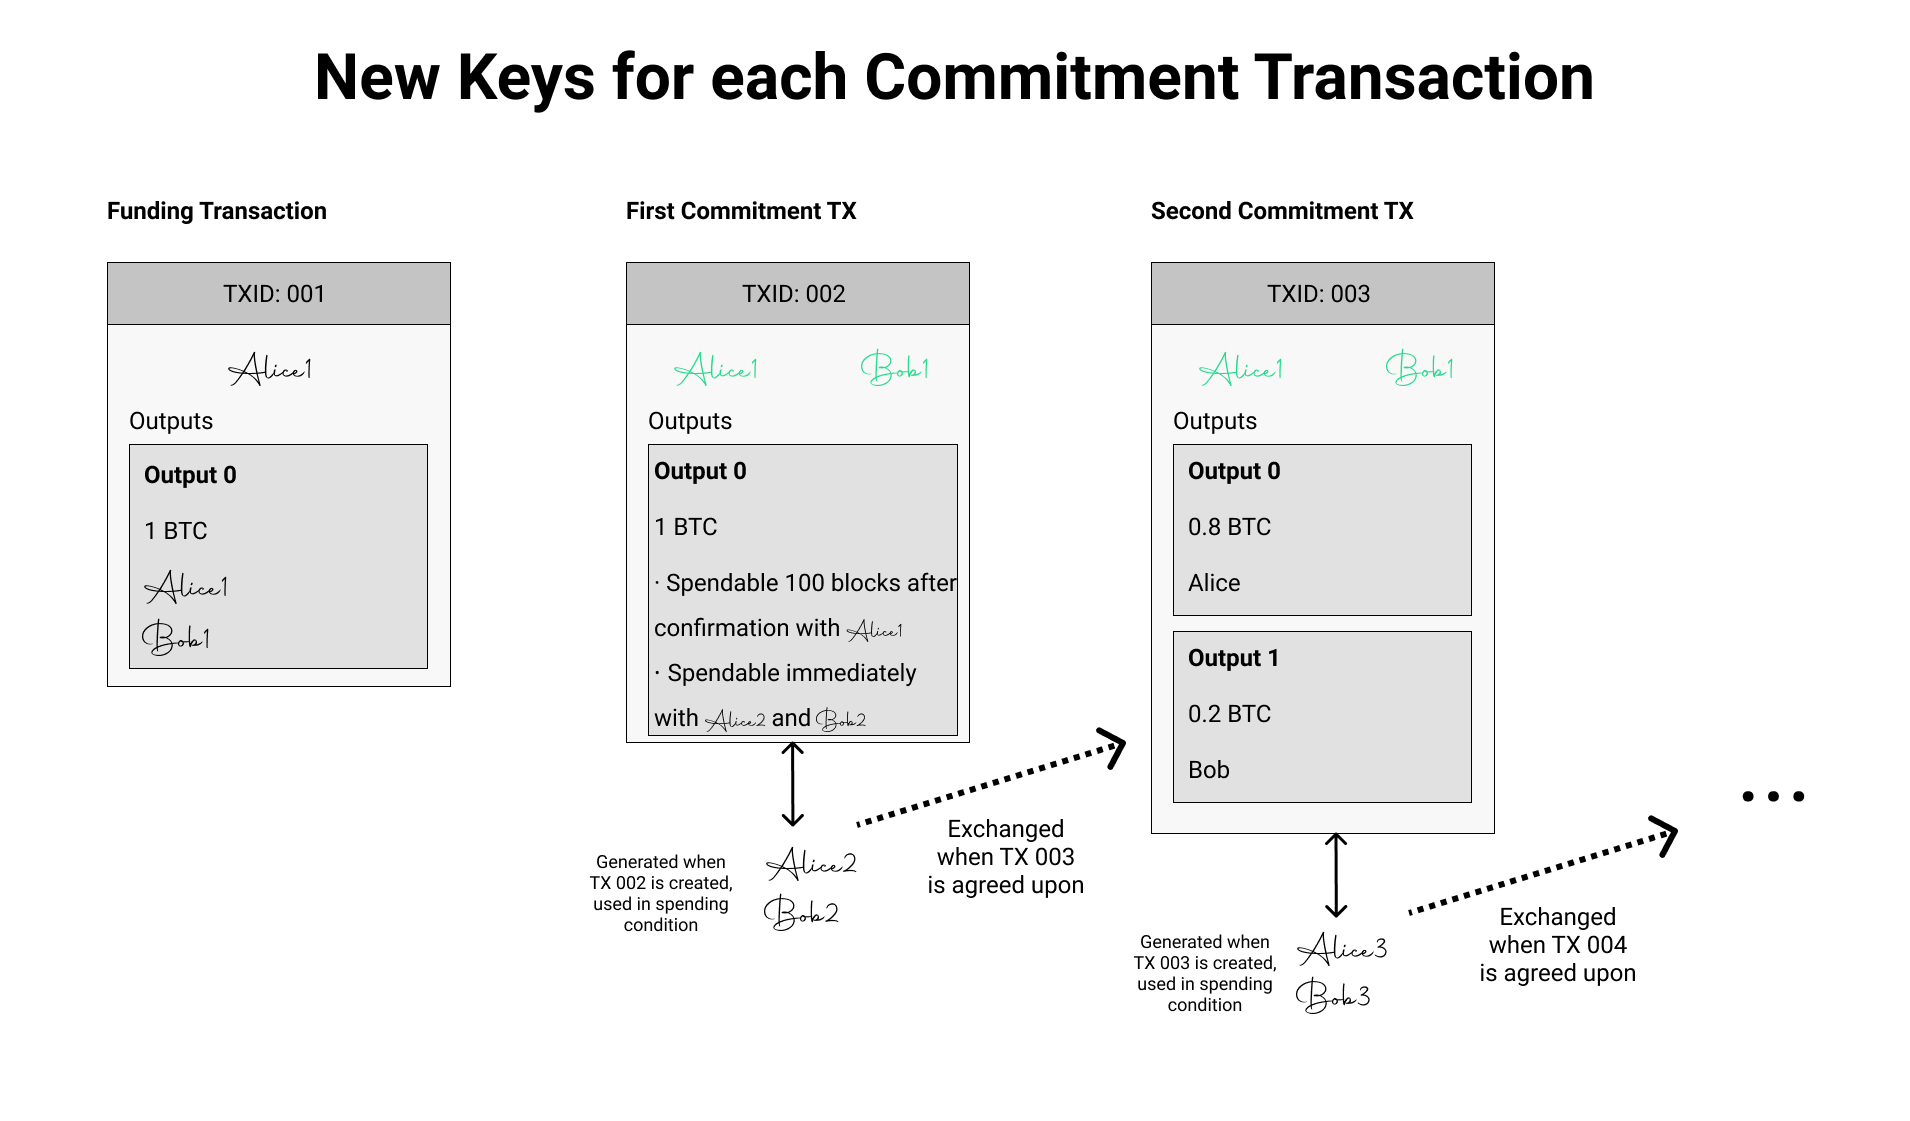
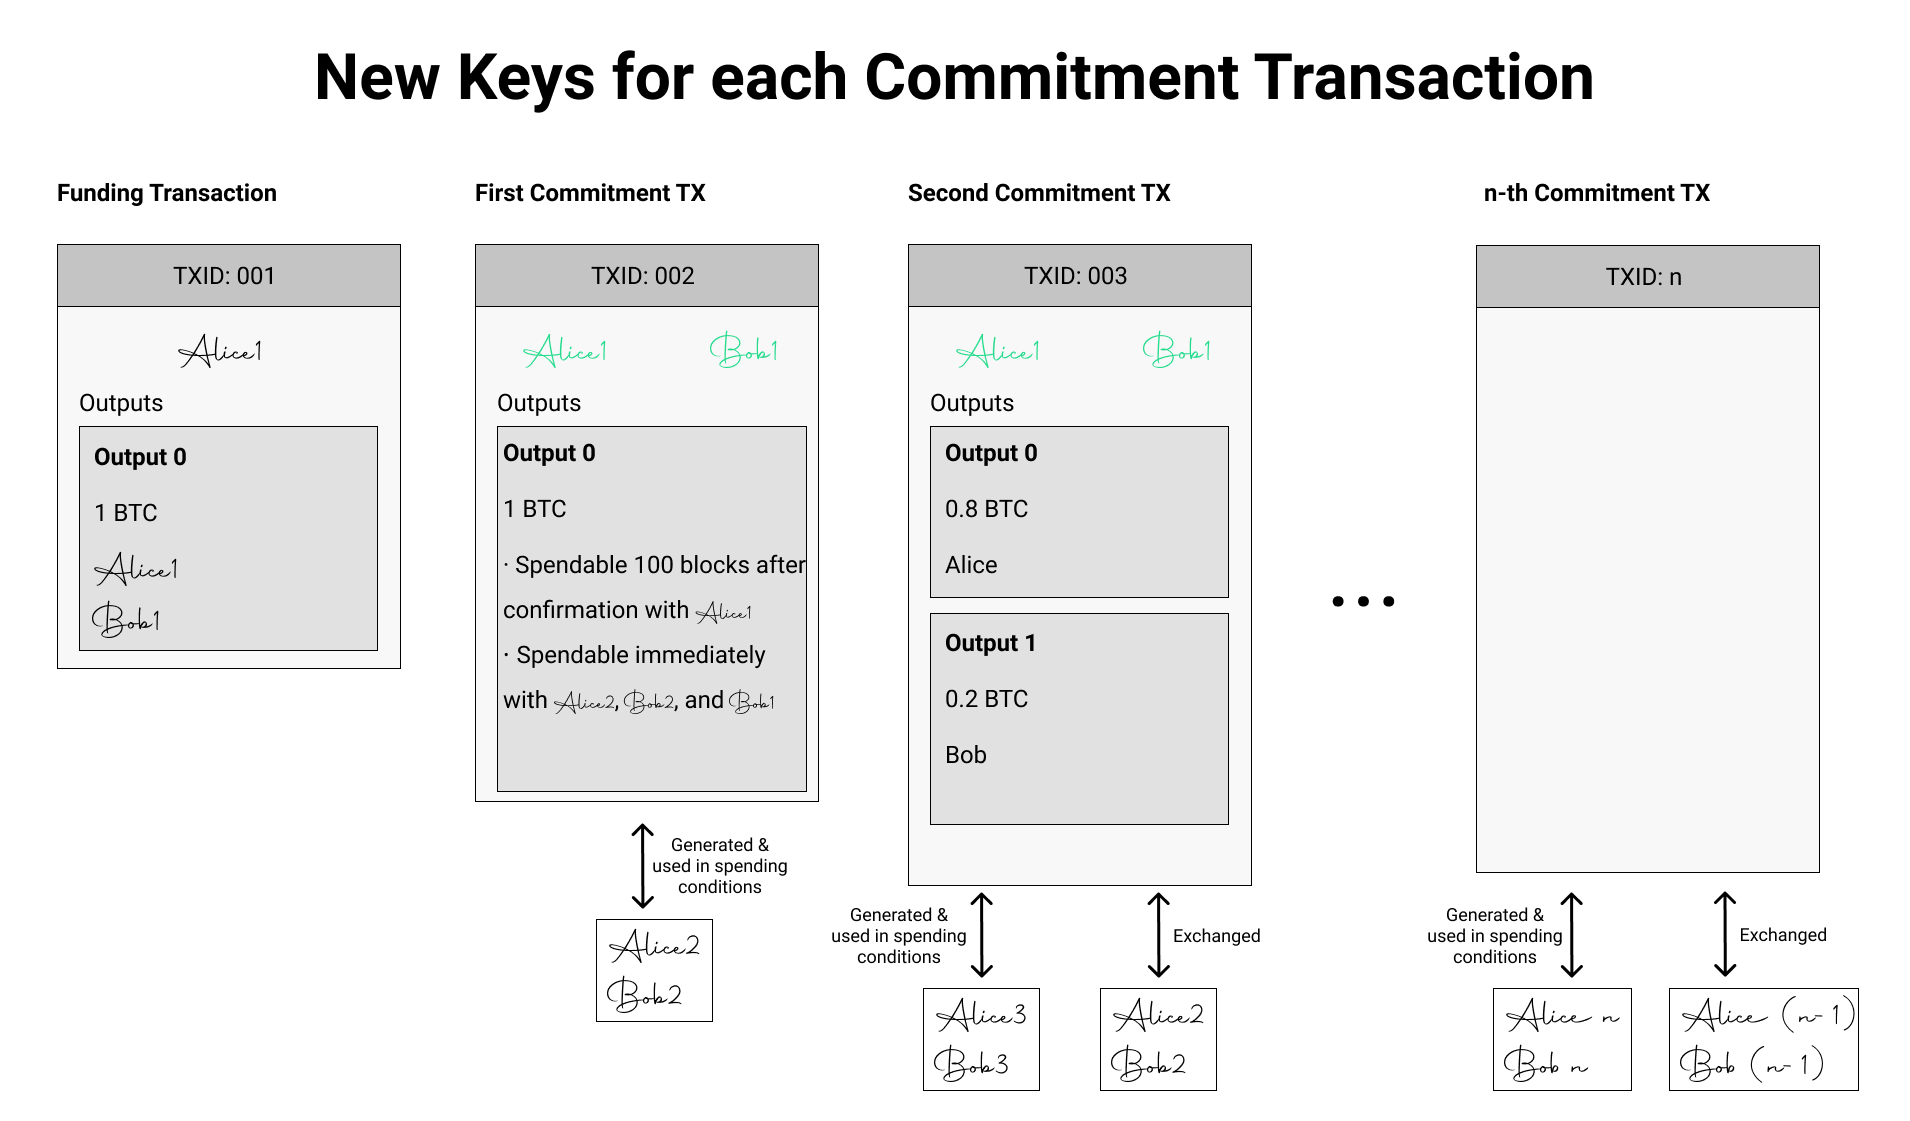
Update payment channels

diff --git a/_i18n/en/_posts/technology/expert/2022-04-04-state-and-payment-channels.md b/_i18n/en/_posts/technology/expert/2022-04-04-state-and-payment-channels.md
@@ -111,7 +111,7 @@ Only at this point is Alice safe to broadcast her funding transaction. She knows
 
 The established payment channel now consists of a signed and broadcast funding transaction and a first commitment transaction serving as an insurance for Alice. This commitment transaction is signed by both participants but ideally it is never broadcast, although it is a valid on-chain transaction.
 
-### Updating Channel Balance - Layer-Two Transaction
+### Commitment Transactions - Updating the Channel Balance
 
 Now Alice wants to make a first transaction paying Bob, maybe because she bought something in his shop. The idea is to create a new commitment transaction, updating the channel balance. It's important to note that all commitment transactions spend the same UTXO created in the funding transaction. This also means that all commitment transactions need to be signed by both participants as these are the spending conditions defined when the channel was established.
 
@@ -131,72 +131,102 @@ In the Lightning Network strong incentives were put in place for payment channel
 
 Here, we finally get to answer why Alice and Bob needed to create two versions of the same transactions earlier.
 
-The tools we have at our disposal for preventing Alice from submitting an old state are the spending conditions of the output's commitment transaction. The idea is to give Bob time to notice that Alice broadcast an old state and to provide him with a tool to claim the entire channel balance when it happens. We combine two different mechanisms to guarantee said behavior: timelocks and one-time private keys. Let's give Bob some time to react to Alice's cheating attempt first.
+The tools we have at our disposal for preventing Alice from submitting an old state are the spending conditions of the commitment transaction outputs. The idea is to give Bob time to notice that Alice cheated by broadcasting an old state and to provide him with a tool to claim the entire channel balance. We combine two different mechanisms to guarantee said behavior: timelocks and one-time private keys. Let's give Bob some time to react to Alice's cheating attempt first by introducing a timelock.
 
 #### Using Timelocks in the Spending Condition
 
-We need to make sure Alice cannot spent the UTXO of the first commitment transaction right away if she broadcasts it. Miners will accept the old commitment TX as soon as it is submitted on-chain. We cannot prevent this using the spending conditions. What we can prevent though, is Alice spending the UTXO right away. Therefore, we place a timelock in it.
+We need to make sure Alice cannot spent the UTXO of the first commitment transaction right away if she broadcasts it. Miners will accept the old commitment TX as soon as it is submitted on-chain. We cannot prevent this using the spending conditions. What we can prevent though, is Alice actually spending the money. Therefore, we place a timelock in it.
 
-Bitcoin and most other Bitcoin-based protocols support essentially two different types of timelocks: absolute and relative. The absolute timelock `CheckLockTimeVerify` makes funds spendable at a defined time, e.g. 10 pm tomorrow night. The relative timelock `CheckSequenceVerify` starts a countdown as soon as a transaction is confirmed. The time unit for relative timelocks is a number of blocks, e.g. the output might become spendable in 100 blocks. When a timelock is placed in a transaction output, it basically adds another item to the checklist nodes will go through when validating a transaction. Besides checking whether the UTXO was previously unspent and a valid signature was presented nodes check if either the absolute time has been crossed or the specified amount of blocks has been passed.
+Bitcoin and most other Bitcoin-based protocols support essentially two different types of timelocks: absolute and relative ones. The absolute timelock `CheckLockTimeVerify` makes funds spendable at a defined time, e.g. 10 pm tomorrow night. The relative timelock `CheckSequenceVerify` starts a countdown as soon as a transaction is confirmed. The time unit for relative timelocks is a number of blocks, e.g. the output might become spendable in 100- blocks time. When a timelock is placed in a transaction output, it basically adds another item to the checklist nodes will go through when validating a transaction. Besides checking whether the UTXO was previously unspent and a valid signature was presented nodes check if the absolute time has been crossed or if the specified amount of blocks has been passed.
 
-The output we modify to prevent Alice from cheating is in the first transaction 002A. It was created and signed by Bob before it was handed to Alice. Let's assume Alice and Bob agreed to provide each other with a 10 day rebuttal time. In reality, this would mean a relative timelock of 1440 blocks in Bitcoin or 5760 blocks in Horizen. For the sake of demonstration, we will simply pretend we can use 10 days as a time unit.
+The output we modify to prevent Alice from cheating is the one in the first commitment transaction: the one she would broadcast to steal Bob's 0.2 BTC. There are to versions of this transaction: one created and signed by Alice and sent to Bob, the other created and signed by Bob and shared with Alice. We denote the version signed by Bob as TX 002**A**, as Alice is the one that can broadcast it (her signature is missing).
+
+Let's assume Alice and Bob agreed to provide each other with a 10 day rebuttal-period. If one were to cheat, the other had 10 days to react. In reality, this would mean a relative timelock of 1440 blocks in Bitcoin or 5760 blocks in Horizen. For the sake of simplicity, we will simply pretend we can use 10 days as a time unit.
 
 ![Securing transaction outputs using timelocks](/assets/post_files/technology/expert/4.3-state-and-payment-channels/timelock.jpg)
 
-Remember this transaction initially served as an assurance for Alice that she would get refunded in case Bob becomes unresponsive. But this is also the transaction she would broadcast in order to steal Bob’s 0.2 BTC. By placing a timelock in the output, we have now insured Bob has time to react. As soon as Alice broadcasts the transaction, she has to wait for 10 days before the output becomes spendable with her signature. If Bob notices he can go ahead and spend the money immediately using his signature.
+Remember this transaction initially served as an assurance for Alice that she would get refunded in case Bob becomes unresponsive. By placing a timelock in the output, we have now ensured Bob has time to react in case Alice were to cheat. As soon as Alice broadcasts the transaction, she has to wait for 10 days before the output becomes spendable with her signature. If Bob notices he can go ahead and spend the money immediately using his signature.
 
-The timelock achieved our first objective, but it introduced a new weakness. If you look at the transaction above, Bob can take the money as soon as the transaction is confirmed. If he was sneaky, he would have Alice fund the channel and pretend to be unresponsive until she would finally decide to broadcast the transaction refunding her. Now he would go ahead and spend the UTXO. It's time to apply the second mechanism ensuring honest behavior: one-time private keys.
+The timelock achieved our first objective: Bob has tiome to notice the cheating attempt and react. At the same time it introduced a new weakness. If you look at the transaction above, Bob can take the money as soon as the transaction hits the blockchain. If he was sneaky, he would have Alice fund the channel and pretend to be unresponsive until she would finally decide to broadcast the transaction in an attempt to get refunded. Now Bob could go ahead and spend the UTXO right away. It's time to apply the second mechanism ensuring honest behavior: one-time private keys.
 
-#### Generating One-Time Keys
+#### Using One-Time Keys to Prevent Theft
 
-**Note**: For the sake of simplicity we consider [private keys]({{ site.baseurl }}{% post_url /technology/expert/2022-02-04-2-generating-keys-and-addresses %}) and [digital signatures]({{ site.baseurl }}{% post_url /technology/expert/2022-02-04-3-digital-signatures %}) as equivalent. Digital signatures are generated using a private key and a message. During the verification, the signature, public key and message are taken as inputs and the output is binary: valid or invalid.
+**Note**: For the sake of simplicity we consider [private keys]({{ site.baseurl }}{% post_url /technology/expert/2022-02-04-2-generating-keys-and-addresses %}) and [digital signatures]({{ site.baseurl }}{% post_url /technology/expert/2022-02-04-3-digital-signatures %}) as "equivalent" in this article. Digital signatures are generated using a private key and a message. During the verification, the signature, public key and message are taken as inputs and the produced output is binary: either the signature is valid or not.
 
-Requring a single signature from Bob is not enough to protect Alice, so we expand on the second spending condition and make it a MultiSig account. Instead of using the initially used private keys `Alice1` and `Bob1` in the spending condition, we use a new pair of keys generated by each participant respectively.
+Requring Bob to simply sign-off on the TX does not protect Alice, so we expand on the second spending condition and make it a MultiSig account. Instead of using the initially used private keys `Alice1` and `Bob1` in the spending condition, we use a new pair of keys generated by each participant respectively.
 
-These keys are generated when the first commitment TX is created and the public keys derived from them are exchanged and placed in the spending condition. When participants agree on the first channel update, in this case Alice paying Bob 0.2 BTC, the one-time keys `Alice2` and `Bob2` are exchanged.
+These keys are generated when the first commitment TXs (TX 002A and 002B) are created and the public keys derived from them are exchanged and placed in the spending condition. When participants agree on the first channel update, here Alice paying Bob 0.2 BTC (TX 003), the one-time keys `Alice2` and `Bob2` used in the original commitment transaction's spending condition are exchanged.
 
 ![Generating One-Time Keys for each Commitment Transaction](/assets/post_files/technology/expert/4.3-state-and-payment-channels/commitment-keys.jpg)
 
-At this point, Bob can be sure the transaction he already signed (002A) can’t be broadcast and spent immediately by Alice due to the timelock. Alice can be sure that if Bob becomes unresponsive, she is save to broadcast the transaction because she has not shared the key `Alice2` yet.
+At this point, Bob can be sure the transaction he already signed (`TX 002A`) can’t be broadcast and spent immediately by Alice due to the timelock. Alice can be sure that if Bob becomes unresponsive, she is save to broadcast the transaction because she has not shared the key `Alice2` yet and Bob can't steal the money.
 
-This also explains why it was importatn that each participant generated a separate version of the same transaction. Remember that TX 002A was created by Bob. He placed the timelock in Alice spending condition to protect himself and without including the second MultiSig Condition Alice would not have agreed to fund the channel in the first place. Since Bob has no interest in broadcasting the first commitment TX it is sufficient for Alice to place a single spending condition in the output.
+This explains why it was important that Alice and Bob generated two versions of the same transaction. Remember that `TX 002A` was created by Bob. He placed the timelock in Alice's spending condition to protect himself from Alice boradcasting an old state. Without including the second MultiSig condition, Alice would not have agreed to fund the channel in the first place. Since Bob has no interest in broadcasting the first commitment TX it is sufficient for Alice to place a single spending condition her version's output.
 
 ![Generating One-Time Keys for each Commitment Transaction](/assets/post_files/technology/expert/4.3-state-and-payment-channels/multisig-output-protection.jpg)
 
-Above you can see the two different versions of the initial commitment TX refunding Alice. The green signature indicates which participant has signed which version and hence who created it. Going forward both, Alice and Bob will generate a new one-time private key with each channel update and exchange the keys used in the previous channel update's spending conditions.
+Above you can see the two different versions of the initial commitment TX refunding Alice. The green signature indicates which party has created and already signed it. Going forward both, Alice and Bob will each generate a new one-time private key with every channel update and exchange the one-time keys used in the previous transaction.
 
-Before we explained how the trustlessness is insured we were already one step ahead. Alice had agreed to pay Bob 0.2 BTC and the keys `Alice2` and `Bob2` were already exchanged. The level of security we wanted to achieve is now guaranteed: Bob has time to react (10 days) when Alice tries to cheat and he can claim the entire channel balance because he can provide `Alice2`, `Bob2` and `Bob1`.
+Before we explained how trustlessness is ensured we were already one step further. Alice had agreed to pay Bob 0.2 BTC and the keys `Alice2` and `Bob2` were exchanged. The level of security we wanted to achieve is now guaranteed: Bob has time to react (10 days) when Alice tries to cheat and he can claim the entire channel balance because he can provide `Alice2`, `Bob2` and `Bob1`.
 
-One of the biggest innovation introduced with blockchain technology was solving the double spend problem without a central point of control. This property is also crucial in this context, as it ensures the output in TX 002A is only spent once: either by satisfiying the first spending condition - Alice timelock - or the second spending condition - Bob's MultiSig.
+One of the innovations introduced with blockchain technology was solving the double spend problem without a central point of control. This property is also crucial in this context, as it ensures the output in `TX 002A` is only spent once: either by satisfiying the first spending condition - Alice timelock - or the second spending condition - Bob's MultiSig.
 
-breach remedy tx
+#### The Second Commitment Transaction
 
-Revocable Delivery Transactions
+The last set of transactions we need to look at are the ones paying Bob 0.2 BTC. While we looked at the, schematically, we didn't consider the spending conditions placed in their outputs yet.
 
-##### Revocable Sequence Maturing Contract - RSMC
+![The first channel update happening in the second commitment transaction](/assets/post_files/technology/expert/4.3-state-and-payment-channels/second-commitment-transaction.jpg)
 
-"As its name indicates, it’s revocable because a layer-two transaction can be replaced by a newer one. It uses the timelock function OP_CHECKSEQUENCEVERIFY, so there is a sequence, which represents the time in the blockchain(as in block height or timestamp). Because the money is locked in time, it’s maturing till it becomes spendable when enough time has passed. Together this design was given the name Revocable Sequence Maturing Contract."
+The first version signed by Bob and broadcastable by Alice uses the same spending conditions in Alice's output of 0.8 BTC as the previous commitment TX did. It serves the same function: if Alice made a second payment to Bob she would again be incentivized to broadcast an old state once she received the good. The only difference is the updated set of one-time keys (`Alice3` and `Bob3`) needed to satisfy the MultiSig output.
 
-can only serve two people
-
-##### Hashed Time Lock Contract - HTLC
-
+This time, Alice also secured Bob's output in `TX 003B` with a timelock and a MultiSig based spending condition. If the next transaction (`TX 004`) was paying Alice, Bob would thereafter have an incentive to broadcast an old state and Alice is protecting herself against this.
 
 ### Closing a Payment Channel - Cross-Layer Transaction
 
+The bilateral payment channel between Alice and Bob can be closed in three different ways, two of which we have covered at least indirectly. If no dispute occures, both parties will agree on closing the channel mutually. When one party becomes unresponsiven, the other party might unilaterally close the channel. If one party tries cheating the other and gets caught, claiming the entire channel balance via the revocation mechanism is the third and last option to close a channel.
+
 #### Mutually Closing a Channel
 
-agreement
+Let's assume Alice and Bob realize that they won't use their channel any more. Both are happy with the current state of the channel paying Bob 0.2 BTC and Alice the remaining 0.8 BTC.
+
+![The first channel update happening in the second commitment transaction](/assets/post_files/technology/expert/4.3-state-and-payment-channels/mutual-channel-closing.jpg)
+
+They will cooperatively create and sign a closing transaction, with both outputs spendable immediately by either participant. This is the best case scenario: no party has their money locked.
 
 #### Unilaterally Closing a Channel
 
-via timeout or payment hash. participants have to wait, hence suboptimal
+The second best scenario is one of the participants broadcasting the current channel state. The commitment transaction being broadcasted in this scenario is the one we modified in two steps: using a time lock first and adding a MultiSig output next to prevent Bob from stealing Alice's money.
+
+This scenario is good in that both parties get the amount of money that they rightfully own. The only caveat is that the party broadcasting the commitment transaction has their funds locked for whatever time period was agreed upon when the transacion was created.
 
 #### Revokation
 
-ugly, cheater got caught
+The worst case scenario, at least for one of the channel participants is the revocation mechanism. If Alice tried to cheat Bob and he notices in time, he will claim the entire channel balance by fulfilling the MultiSig spending condition.
 
-use "posting stale state" to mix things up
+### Lightning Terminology
+
+Commitment transactions are sometimes referred to as *Revocable Sequence Maturity Contracts* (RSMCs).
+
+- Commitment transactions are *revocable* as they can be replaced with more recent channel updates.
+- *Sequence* refers to the sequence of blocks used in the relative timelock
+- *Maturity* refers to those outputs only becoming spendable after the relative lock time has passed - the contract has matured.
+
+The transaction granting one party the entire channel balance in case the other was cheating is called the *Breach Remedy Transaction*.
+
+- *Breach* as in breach of a contract, in which both parties agreed on only ever broadcasting recent channel states on-chain
+- *Remedy* as in compensating the cheated party for said breach of contract.
+
+While even this relatively simple composition of established features and functionalities supported by bitcoin-based protocols allows for a very useful construction, the truly interesting stuff happens, when you connect several payment channels to a network of channels - such as Lightning. In order to do so, we need another type of "contract" that extends the functionality of RSMCs- the *Hashed Time Lock Contract* or HTLC.
+
+### Hashed Time Lock Contracts - HTLCs
+
+
+
+
+
+
+
+
 
 
 ### Building a Network with HTLCs
